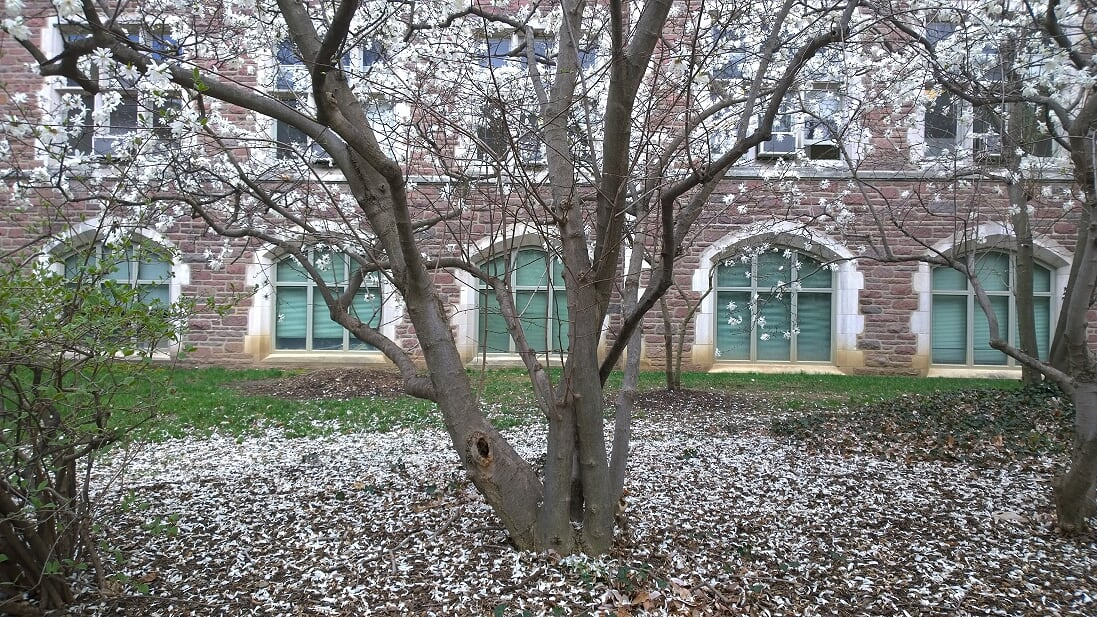
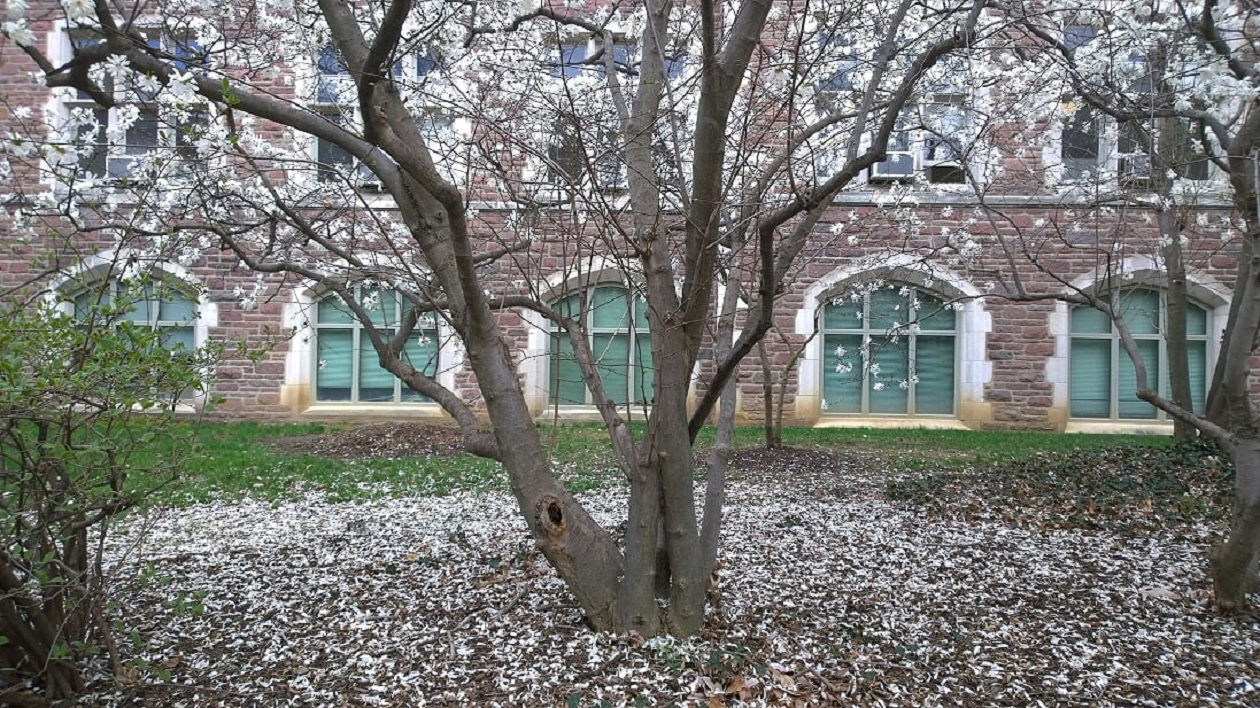
changed style

diff --git a/css/main.css b/css/main.css
@@ -211,7 +211,7 @@ border-color: #665126;border-left-style: dotted;border-right-style: dotted;borde
 
 html{
 
-    background-image: url("../images/campusTree.jpg")
+    background-image: url("../images/campusTreev2.jpg")
 }
 body {
     margin: 0px auto;
